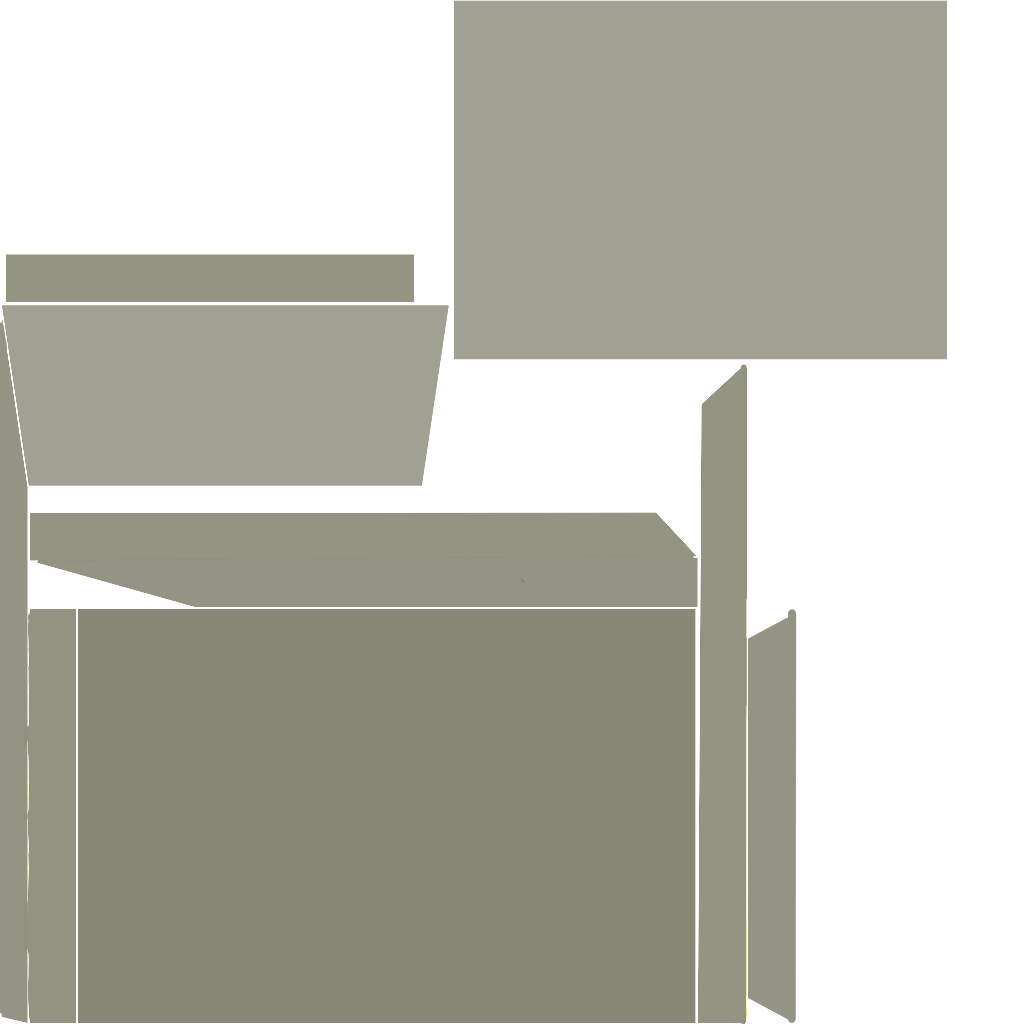
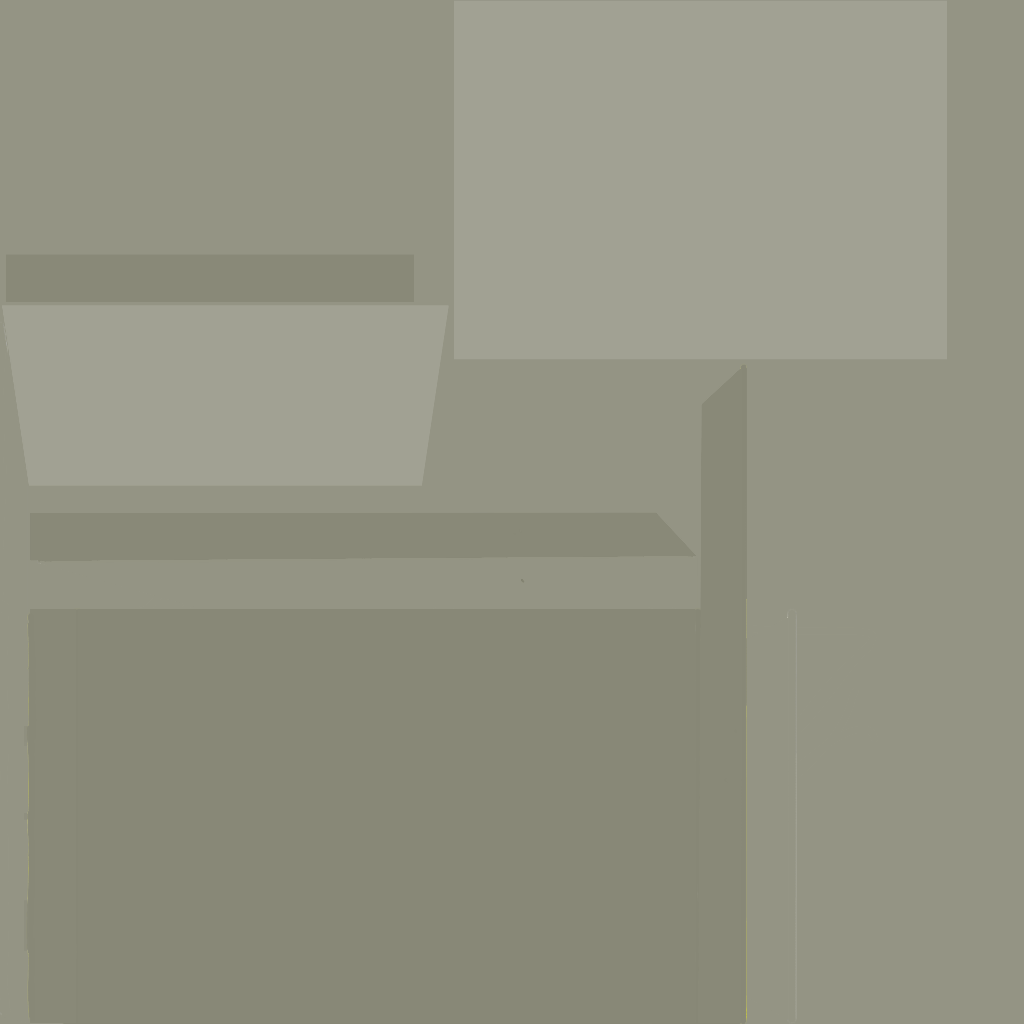
update

diff --git a/src/shaders/outline.rs b/src/shaders/outline.rs
@@ -321,7 +321,7 @@ impl Default for ShaderSettingsOutline {
     fn default() -> Self {
         Self {
             depth_threshold: 1.9,
-            depth_threshold_depth_mul: 0.5,
+            depth_threshold_depth_mul: 0.6,
             depth_normal_threshold: 0.5,
             depth_normal_threshold_mul: 30.0,
             normal_threshold: 0.16,
